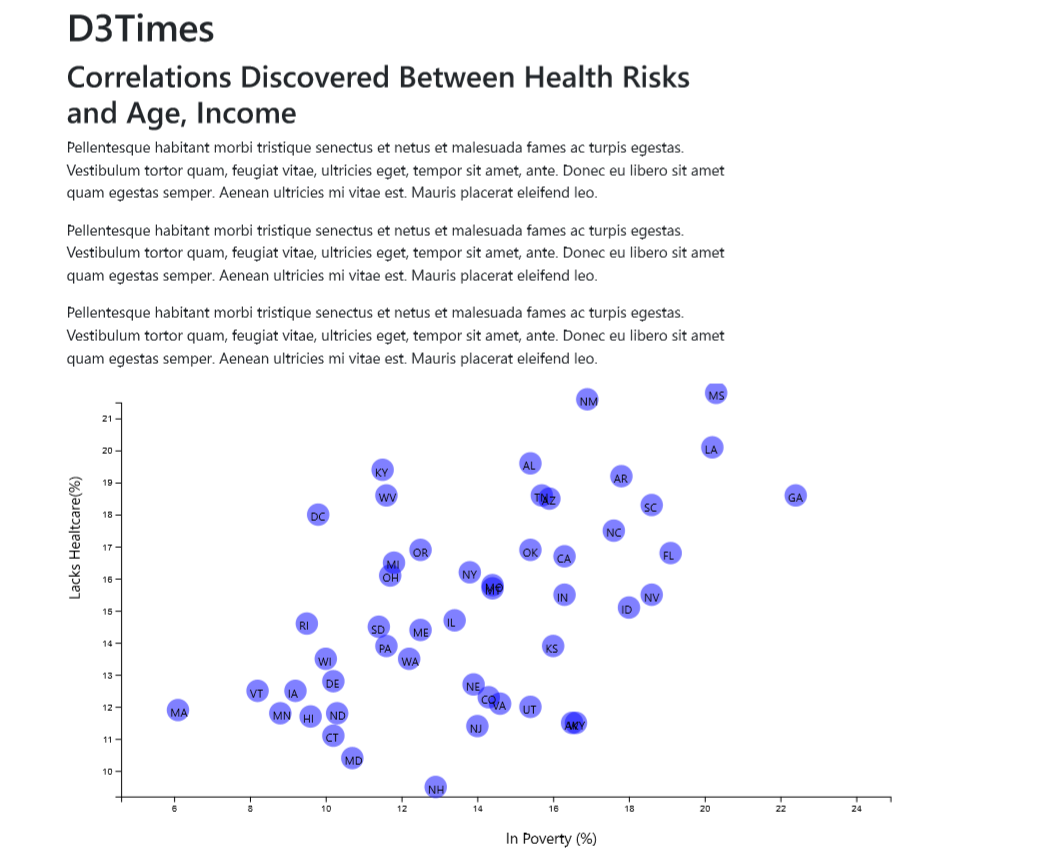
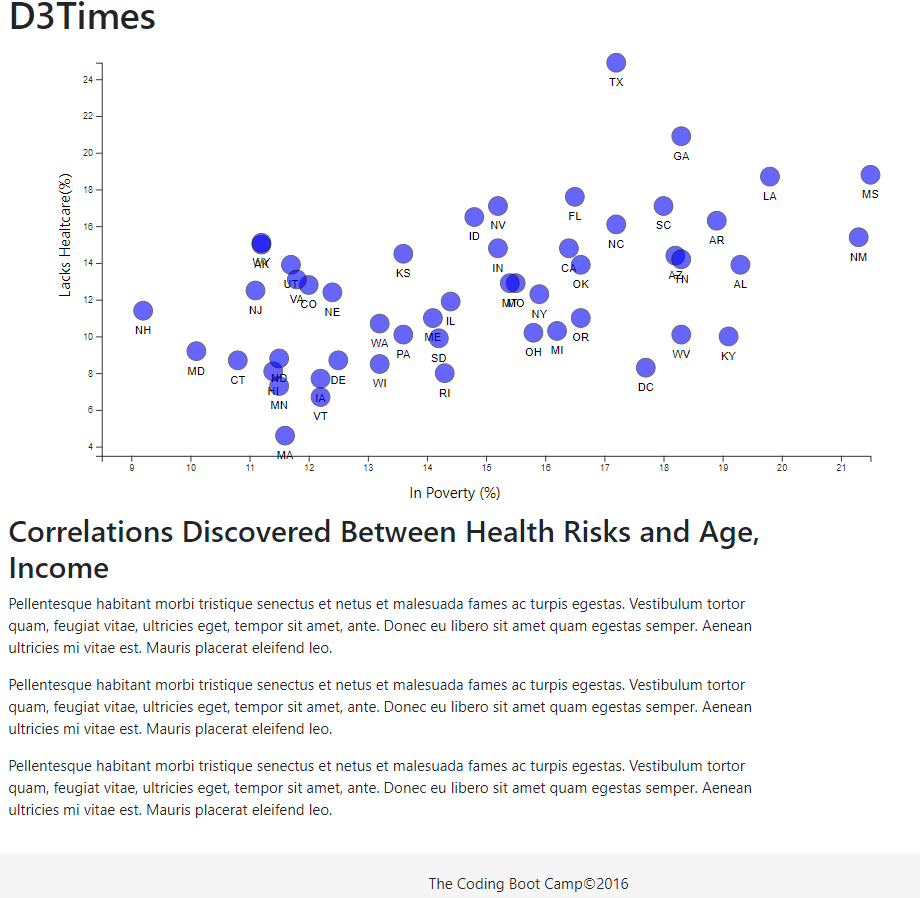
fixed js and updated D3_data_journalism.png

diff --git a/D3_data_journalism/assets/js/app.js b/D3_data_journalism/assets/js/app.js
@@ -1,3 +1,5 @@
+function makeResponsive() {
+
 var svgWidth = 960;
 var svgHeight = 500;
 
@@ -12,7 +14,7 @@ var width = svgWidth - margin.left - margin.right;
 var height = svgHeight - margin.top - margin.bottom;
 
 // Create an SVG wrapper, append an SVG group that will hold our chart, and shift the latter by left and top margins.
-var svg = d3.select("body")
+var svg = d3.select("#scatter")
   .append("svg")
   .attr("width", svgWidth)
   .attr("height", svgHeight);
@@ -20,120 +22,84 @@ var svg = d3.select("body")
 var chartGroup = svg.append("g")
   .attr("transform", `translate(${margin.left}, ${margin.top})`);
 
-d3.select("body").append("div").attr("class", "tooltip").style("opacity", 0);
+//Import Data from data.csv file
+d3.csv("assets/data/data.csv")
+    .then(function(healthData){
 
-// Import Data
-d3.csv("/data/data.csv", function(err, healthData) {
-  if (err) throw err;
-console.log(healthData)
   // Step 1: Parse Data/Cast as numbers
   healthData.forEach(function(data) {
-    data.poverty = +data.poverty;
+    data.age = +data.age;
+    data.smokes = +data.smokes;
     data.healthcare = +data.healthcare;
+    data.poverty = +data.poverty;
+    data.abbr = data.abbr;
+    data.income = +data.income;
   });
 
   // Step 2: Create scale functions
-  var xLinearScale = d3.scaleLinear().range([0, width]);
-  var yLinearScale = d3.scaleLinear().range([height, 0]);
+  var xLinearScale = d3.scaleLinear()
+      .domain([8.5, d3.max(healthData, d => d.poverty)])
+      .range([0, width]);
+
+  var yLinearScale = d3.scaleLinear()
+      .domain([3.5, d3.max(healthData, d => d.healthcare)])
+      .range([height, 0]);
 
   // Step 3: Create axis functions
-  var bottomAxis = d3.axisBottom(xLinearScale);
-  var leftAxis = d3.axisLeft(yLinearScale);
-  var xMin;
-  var xMax;
-  var yMin;
-  var yMax;
-  
-  xMin = d3.min(healthData, function(data) {
-      return data.healthcare;
-  });
-  
-  xMax = d3.max(healthData, function(data) {
-      return data.healthcare;
-  });
-  
-  yMin = d3.min(healthData, function(data) {
-      return data.poverty;
-  });
-  
-  yMax = d3.max(healthData, function(data) {
-      return data.poverty;
-  });
-  
-  xLinearScale.domain([xMin, xMax]);
-  yLinearScale.domain([yMin, yMax]);
-  console.log(xMin);
-  console.log(yMax);
+  var xAxis = d3.axisBottom(xLinearScale);
+  var yAxis = d3.axisLeft(yLinearScale);
 
   // Step 4: Append Axes to the chart
   chartGroup.append("g")
     .attr("transform", `translate(0, ${height})`)
-    .call(bottomAxis);
+    .call(xAxis);
 
   chartGroup.append("g")
-    .call(leftAxis);
+    .call(yAxis);
 
   // Step 5: Create Circles
   var circlesGroup = chartGroup.selectAll("circle")
   .data(healthData)
   .enter()
   .append("circle")
-  .attr("cx", d => xLinearScale(d.healthcare +1.5))
-  .attr("cy", d => yLinearScale(d.poverty +0.3))
-  .attr("r", "12")
+  .attr("cx", d => xLinearScale(d.poverty))
+  .attr("cy", d => yLinearScale(d.healthcare))
+  .attr("r", "10")
   .attr("fill", "blue")
-  .attr("opacity", .5)
+  .attr("opacity", ".6")
+  .attr("stroke-width", "1")
+  .attr("stroke", "black");
 
-  .on("mouseout", function(data, index) {
-    toolTip.hide(data);
-  });
-
-  // Step 6: Initialize tool tip
-  var toolTip = d3.tip()
-    .attr("class", "tooltip")
-    .offset([80, -60])
-    .html(function(d) {
-      return (abbr + '%');
-      });
-
-  // Step 7: Create tooltip in the chart
-  chartGroup.call(toolTip);
-
-  // Step 8: Create event listeners to display and hide the tooltip
-  circlesGroup.on("click", function(data) {
-    toolTip.show(data);
-  })
-    .on("mouseout", function(data, index) {
-      toolTip.hide(data);
-    });
-
-  // Create axes labels
-  chartGroup.append("text")
-  .style("font-size", "12px")
-  .selectAll("tspan")
+  chartGroup.select("g")
+  .selectAll("circle")
   .data(healthData)
   .enter()
-  .append("tspan")
-      .attr("x", function(data) {
-          return xLinearScale(data.healthcare +1.3);
-      })
-      .attr("y", function(data) {
-          return yLinearScale(data.poverty +.1);
-      })
-      .text(function(data) {
-          return data.abbr
-      });
+  .append("text")
+  .text(d => d.abbr)
+  .attr("x", d => xLinearScale(d.poverty))
+  .attr("y", d => yLinearScale(d.healthcare))
+  .attr("dy",-395)
+  .attr("text-anchor", "middle")
+  .attr("font-size", "12px")
+  .attr("fill", "black");
+
+  console.log(healthData);
+
+  //Make labels for the healthrisk graph
 
   chartGroup.append("text")
     .attr("transform", "rotate(-90)")
-    .attr("y", 0 - margin.left + 40)
-    .attr("x", 0 - (height / 2))
+    .attr("y", 0 - 50)
+    .attr("x", 0 - 250)
     .attr("dy", "1em")
     .attr("class", "axisText")
     .text("Lacks Healtcare(%)");
 
   chartGroup.append("text")
-    .attr("transform", `translate(${width / 2}, 470)`)
+    .attr("transform", `translate(${width / 2.5}, ${height + margin.top + 25} )`)
     .attr("class", "axisText")
     .text("In Poverty (%)");
 });
+}
+
+makeResponsive();
